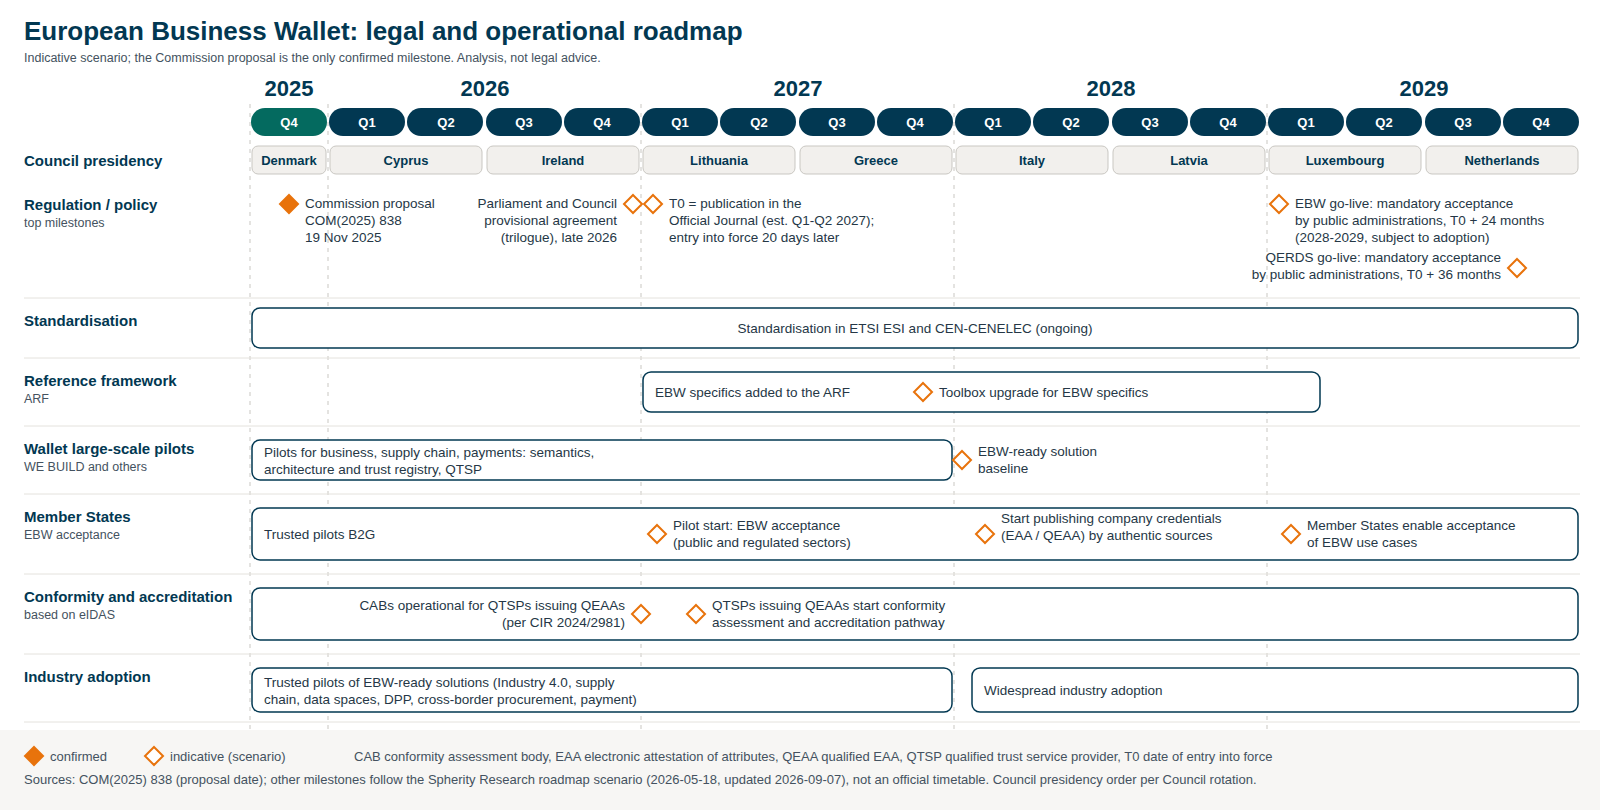
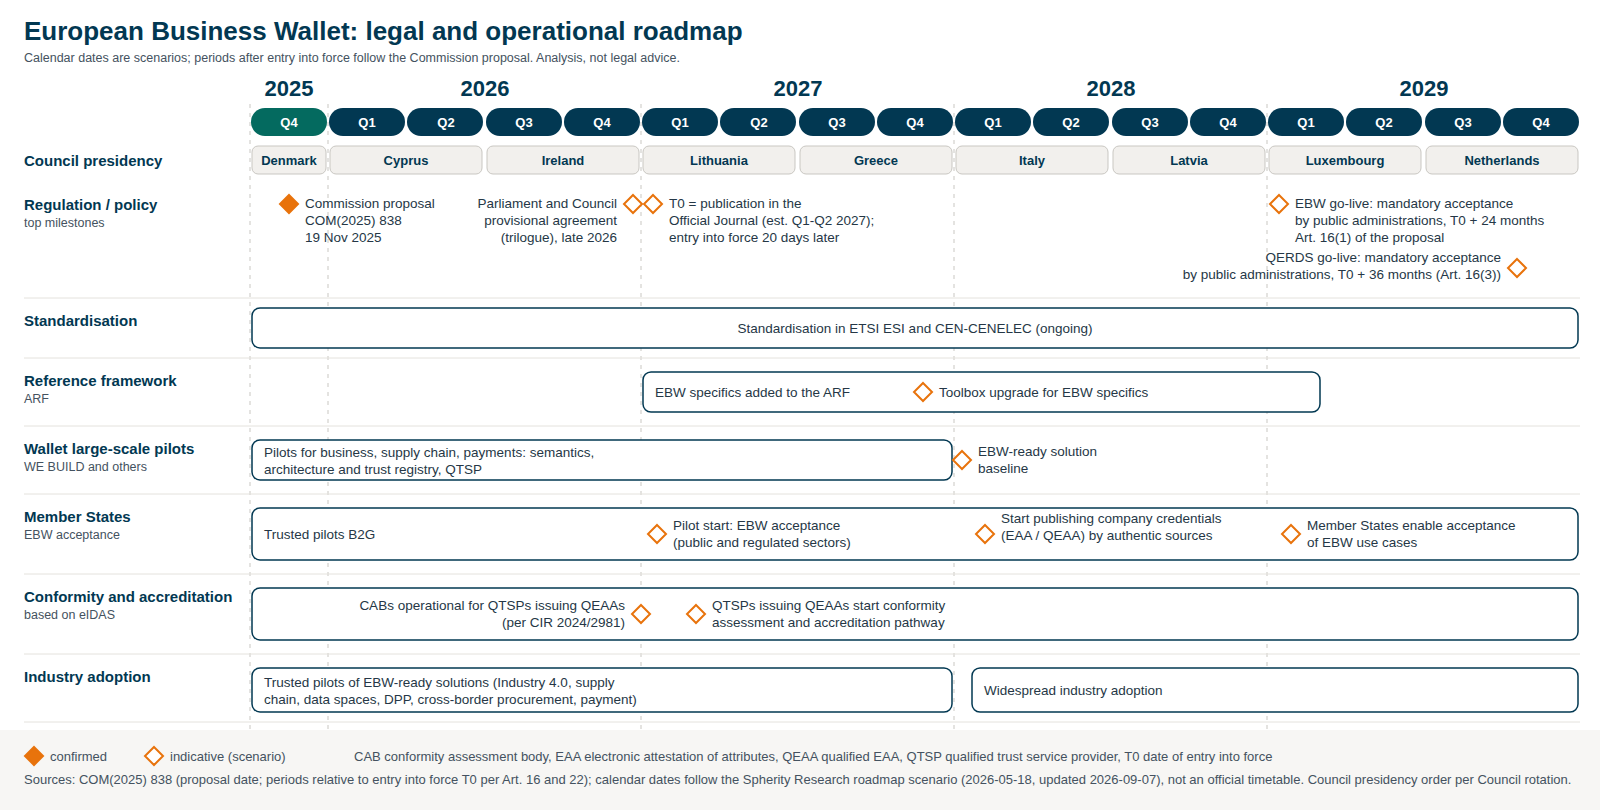
Verify roadmap periods against COM(2025) 838; collapsed sidebar opens as hover overlay
Claude-Session: https://claude.ai/code/session_01RRXMScBUHwRsdBuoyJLmUJ

Changed region(s): [[0.1562, 0.9568, 0.9688, 0.9877], [0.75, 0.2778, 0.9375, 0.3704], [0.0, 0.0617, 0.4375, 0.0926]]

diff --git a/_sass/custom/custom.scss b/_sass/custom/custom.scss
@@ -159,18 +159,17 @@ tr[hidden] { display: none; }
   .nav-toggle:hover { background: var(--sph-offwhite-500); }
   .nav-toggle .icon { width: 18px; height: 18px; transition: transform 220ms cubic-bezier(.16,1,.3,1); --icon: url("../icons/chevron-down.svg"); transform: rotate(90deg); }
   html.nav-collapsed .nav-toggle .icon { transform: rotate(-90deg); }
-  html.nav-collapsed .side-bar { --nav-w: 4.5rem; }
-  html.nav-collapsed .site-footer { width: 4.5rem; }
-  html.nav-collapsed .site-header { flex-direction: column; justify-content: center; gap: .25rem; height: auto; max-height: none; padding: .5rem 0; }
-  html.nav-collapsed .site-title { padding: 0; justify-content: center; flex-grow: 0; height: 2.25rem; }
-  html.nav-collapsed .site-logo { background-image: url("../images/logos/spherity-s-mark.svg") !important; background-size: contain !important; background-position: center !important; width: 2rem; height: 2rem; }
-  html.nav-collapsed .nav-toggle { margin-right: 0; }
-  html.nav-collapsed .site-nav { padding-top: .5rem; }
-  html.nav-collapsed .nav-list .nav-list-item .nav-list-link { font-size: 0 !important; padding: 0 !important; min-height: 2.75rem; display: flex; align-items: center; justify-content: center; }
-  html.nav-collapsed .nav-list .nav-list-link .nav-ic { margin: 0 !important; width: 22px !important; height: 22px; vertical-align: middle; }
-  html.nav-collapsed .nav-list .nav-list-link.external::after { display: none; }
-  html.nav-collapsed .nav-list .nav-list-expander, html.nav-collapsed .nav-list .nav-list-item > .nav-list, html.nav-collapsed .site-footer, html.nav-collapsed .side-bar footer { display: none !important; }
-  html.nav-collapsed .site-nav a.nav-list-link[aria-current="page"] { box-shadow: inset 0 -3px 0 var(--sph-cyan-500); }
+  html.nav-collapsed:not(.nav-peek) .site-footer { width: 4.5rem; }
+  html.nav-collapsed:not(.nav-peek) .site-header { flex-direction: column; justify-content: center; gap: .25rem; height: auto; max-height: none; padding: .5rem 0; }
+  html.nav-collapsed:not(.nav-peek) .site-title { padding: 0; justify-content: center; flex-grow: 0; height: 2.25rem; }
+  html.nav-collapsed:not(.nav-peek) .site-logo { background-image: url("../images/logos/spherity-s-mark.svg") !important; background-size: contain !important; background-position: center !important; width: 2rem; height: 2rem; }
+  html.nav-collapsed:not(.nav-peek) .nav-toggle { margin-right: 0; }
+  html.nav-collapsed:not(.nav-peek) .site-nav { padding-top: .5rem; }
+  html.nav-collapsed:not(.nav-peek) .nav-list .nav-list-item .nav-list-link { font-size: 0 !important; padding: 0 !important; min-height: 2.75rem; display: flex; align-items: center; justify-content: center; }
+  html.nav-collapsed:not(.nav-peek) .nav-list .nav-list-link .nav-ic { margin: 0 !important; width: 22px !important; height: 22px; vertical-align: middle; }
+  html.nav-collapsed:not(.nav-peek) .nav-list .nav-list-link.external::after { display: none; }
+  html.nav-collapsed:not(.nav-peek) .nav-list .nav-list-expander, html.nav-collapsed:not(.nav-peek) .nav-list .nav-list-item > .nav-list, html.nav-collapsed:not(.nav-peek) .site-footer, html.nav-collapsed:not(.nav-peek) .side-bar footer { display: none !important; }
+  html.nav-collapsed:not(.nav-peek) .site-nav a.nav-list-link[aria-current="page"] { box-shadow: inset 0 -3px 0 var(--sph-cyan-500); }
 }
 @media (min-width: 50rem) { .site-header { flex-wrap: nowrap; } }
 
@@ -203,9 +202,12 @@ table tbody tr:hover td { background: var(--sph-offwhite-300); }
 /* Layout: sidebar flush left, content uses the remaining width; smooth fold/unfold */
 @media (min-width: 50rem) {
   html { --nav-w: 17rem; }
-  html .side-bar { --nav-w: inherit; width: var(--nav-w) !important; min-width: var(--nav-w) !important; align-items: flex-start; overflow: hidden; transition: width 240ms cubic-bezier(.16,1,.3,1); }
+  html .side-bar { width: var(--side-w, var(--nav-w)) !important; min-width: var(--side-w, var(--nav-w)) !important; z-index: 20; align-items: flex-start; overflow: hidden; transition: width 240ms cubic-bezier(.16,1,.3,1); }
   html .side-bar + .main { margin-left: var(--nav-w) !important; max-width: none; transition: margin-left 240ms cubic-bezier(.16,1,.3,1); }
-  html.nav-collapsed { --nav-w: 4.5rem; }
+  html.nav-collapsed { --nav-w: 4.5rem; --side-w: 4.5rem; }
+  html.nav-collapsed.nav-peek { --side-w: 17rem; }
+  html.nav-collapsed.nav-peek .side-bar { box-shadow: 0 12px 32px rgba(2,56,82,.18); }
+  html.nav-collapsed.nav-peek .site-header { flex-direction: row; }
   html .site-header, html .site-nav { width: 100%; }
   html .main-content-wrap { max-width: 88rem; margin-left: auto; margin-right: auto; }
   html .main-header { max-width: 88rem; margin-left: auto; margin-right: auto; }

diff --git a/_includes/footer_custom.html b/_includes/footer_custom.html
@@ -38,8 +38,15 @@
     var b = document.createElement("button");
     b.type = "button"; b.className = "nav-toggle";
     b.innerHTML = '<span class="icon" aria-hidden="true"></span>';
+    var side = document.querySelector(".side-bar"), tin, tout;
+    if (side) {
+      side.addEventListener("mouseenter", function () { clearTimeout(tout); if (html.classList.contains("nav-collapsed")) tin = setTimeout(function () { html.classList.add("nav-peek"); }, 90); });
+      side.addEventListener("mouseleave", function () { clearTimeout(tin); tout = setTimeout(function () { html.classList.remove("nav-peek"); }, 180); });
+      side.addEventListener("focusin", function () { if (html.classList.contains("nav-collapsed")) html.classList.add("nav-peek"); });
+      side.addEventListener("focusout", function (e) { if (!side.contains(e.relatedTarget)) html.classList.remove("nav-peek"); });
+    }
     function sync() { var c = html.classList.contains("nav-collapsed"); b.setAttribute("aria-pressed", c ? "true" : "false"); b.setAttribute("aria-label", c ? "Expand navigation" : "Collapse navigation to icons"); b.title = c ? "Expand navigation" : "Collapse navigation to icons"; }
-    b.addEventListener("click", function () { html.classList.toggle("nav-collapsed"); try { localStorage.setItem("ebw-nav", html.classList.contains("nav-collapsed") ? "collapsed" : "expanded"); } catch (e) {} sync(); });
+    b.addEventListener("click", function () { html.classList.remove("nav-peek"); html.classList.toggle("nav-collapsed"); try { localStorage.setItem("ebw-nav", html.classList.contains("nav-collapsed") ? "collapsed" : "expanded"); } catch (e) {} sync(); });
     header.appendChild(b); sync();
   }
   // "On this page" for long articles

diff --git a/scripts/gen_roadmap.py b/scripts/gen_roadmap.py
@@ -19,7 +19,7 @@ a('<metadata xmlns:dc="http://purl.org/dc/elements/1.1/" xmlns:cc="http://creati
 a('<style>text{font-family:Archivo,Arial,sans-serif;fill:#253746}.t{font-size:26px;font-weight:700;fill:#023852}.lane{font-size:15px;font-weight:700;fill:#023852}.sub{font-size:12.5px;fill:#445260}.yr{font-size:22px;font-weight:700;fill:#023852}.q{font-size:13px;font-weight:600;fill:#fff}.bx{font-size:13.5px}.pres{font-size:13px;font-weight:600;fill:#023852}.leg{font-size:13px;fill:#445260}.grid{stroke:#C9C7C2;stroke-width:1;stroke-dasharray:4 5}</style>')
 a(f'<rect width="{W}" height="{H}" fill="#fff"/>')
 a(f'<text x="{LX}" y="40" class="t">European Business Wallet: legal and operational roadmap</text>')
-a(f'<text x="{LX}" y="62" class="sub">Indicative scenario; the Commission proposal is the only confirmed milestone. Analysis, not legal advice.</text>')
+a(f'<text x="{LX}" y="62" class="sub">Calendar dates are scenarios; periods after entry into force follow the Commission proposal. Analysis, not legal advice.</text>')
 # year labels and quarter ribbon
 years = [(2025, 0, 1), (2026, 1, 5), (2027, 5, 9), (2028, 9, 13), (2029, 13, 17)]
 for y, s, e in years:
@@ -57,8 +57,8 @@ for yy in (298, 358, 426, 494, 574, 654, 722):
 diamond(qx(0.5), 204, True); lines(qx(0.5)+16, 208, "Commission proposal|COM(2025) 838|19 Nov 2025")
 diamond(qx(4.9), 204); lines(qx(4.9)-16, 208, "Parliament and Council|provisional agreement|(trilogue), late 2026", "end")
 diamond(qx(5.15), 204); lines(qx(5.15)+16, 208, "T0 = publication in the|Official Journal (est. Q1-Q2 2027);|entry into force 20 days later")
-diamond(qx(13.15), 204); lines(qx(13.15)+16, 208, "EBW go-live: mandatory acceptance|by public administrations, T0 + 24 months|(2028-2029, subject to adoption)")
-diamond(qx(16.2), 268); lines(qx(16.2)-16, 262, "QERDS go-live: mandatory acceptance|by public administrations, T0 + 36 months", "end")
+diamond(qx(13.15), 204); lines(qx(13.15)+16, 208, "EBW go-live: mandatory acceptance|by public administrations, T0 + 24 months|Art. 16(1) of the proposal")
+diamond(qx(16.2), 268); lines(qx(16.2)-16, 262, "QERDS go-live: mandatory acceptance|by public administrations, T0 + 36 months (Art. 16(3))", "end")
 # standardisation
 bar(0, 17, 308, 40, None, "#fff", PET); lines(qx(8.5), 333, "Standardisation in ETSI ESI and CEN-CENELEC (ongoing)", "middle")
 # ARF
@@ -86,6 +86,6 @@ a(f'<rect x="0" y="{H-80}" width="{W}" height="80" fill="#F7F6F4"/>')
 diamond(LX+10, ly+6, True); a(f'<text x="{LX+26}" y="{ly+11}" class="leg">confirmed</text>')
 diamond(LX+130, ly+6); a(f'<text x="{LX+146}" y="{ly+11}" class="leg">indicative (scenario)</text>')
 a(f'<text x="{LX+330}" y="{ly+11}" class="leg">CAB conformity assessment body, EAA electronic attestation of attributes, QEAA qualified EAA, QTSP qualified trust service provider, T0 date of entry into force</text>')
-a(f'<text x="{LX}" y="{ly+34}" class="leg">Sources: COM(2025) 838 (proposal date); other milestones follow the Spherity Research roadmap scenario (2026-05-18, updated 2026-09-07), not an official timetable. Council presidency order per Council rotation.</text>')
+a(f'<text x="{LX}" y="{ly+34}" class="leg">Sources: COM(2025) 838 (proposal date; periods relative to entry into force T0 per Art. 16 and 22); calendar dates follow the Spherity Research roadmap scenario (2026-05-18, updated 2026-09-07), not an official timetable. Council presidency order per Council rotation.</text>')
 a('</svg>')
 open(os.path.join(ROOT, "assets/figures/legal-roadmap.svg"), "w").write("\n".join(out))

diff --git a/legal/roadmap.md b/legal/roadmap.md
@@ -19,23 +19,28 @@ When could the European Business Wallet (EBW) become mandatory for public admini
 
 ## Reading the roadmap
 
-The structure follows the roadmap of [Spherity Research](https://spherity.github.io/spherity-research/ebw-roadmap.html) (published 2026-05-18, updated 2026-09-07): Council presidencies on top, then seven tracks. Mandatory acceptance is counted from **T0**, the date the regulation enters into force, 20 days after publication in the Official Journal. <span class="vtag v-todo">to verify</span> The application periods (24 months for EBW, 36 months for qualified electronic registered delivery) are taken from the Spherity roadmap and still have to be checked against the proposal text.
+The structure follows the roadmap of [Spherity Research](https://spherity.github.io/spherity-research/ebw-roadmap.html) (published 2026-05-18, updated 2026-09-07): Council presidencies on top, then seven tracks. Mandatory acceptance is counted from **T0**, the date the regulation enters into force, 20 days after publication in the Official Journal. The periods relative to T0 are <span class="vtag v-ok">verified</span> in the text of the proposal (see the table); the calendar dates are not, because they depend on when the regulation is adopted.
 
 ## Milestones
 
-| Milestone | Date | Status | Gate or dependency |
+| Milestone | Date | Basis | Gate or dependency |
 |---|---|---|---|
 | Commission proposal COM(2025) 838 | 19 Nov 2025 | confirmed | Starts the legislative procedure |
-| Parliament and Council positions | 2026 | indicative | Council working party and Parliament committee work |
-| Provisional agreement (trilogue) | late 2026 | indicative | Political priorities; slippage into 2027 possible |
-| Publication in the Official Journal | about Q1 to Q2 2027 | indicative | Legal-linguistic revision; defines T0 |
-| Entry into force (T0) | publication + 20 days | indicative | Starts the application periods |
-| EBW specifics in the ARF and toolbox | 2027 | indicative | Final legal text; Cooperation Group |
-| Standards in ETSI ESI and CEN-CENELEC | ongoing, 2026 to 2027 | indicative | Needed before conformity assessment |
-| Start of company credentials by authentic sources | 2027 to 2028 | indicative | National law and data models |
-| Mandatory acceptance by public administrations | T0 + 24 months (2028 to 2029) | indicative | Interoperability infrastructure, trust lists, discovery |
-| Qualified electronic registered delivery go-live | T0 + 36 months | indicative | As above |
-| Widespread industry adoption | 2028 onwards | indicative | Network effect; not mandated by the proposal |
+| Parliament and Council positions | 2026 | scenario | Council working party and Parliament committee work |
+| Provisional agreement (trilogue) | late 2026 | scenario | Political priorities; slippage into 2027 possible |
+| Publication in the Official Journal | about Q1 to Q2 2027 | scenario | Legal-linguistic revision |
+| Entry into force (T0) | 20th day after publication | <span class="vtag v-ok">verified</span> Art. 22 | Starts the periods below |
+| Member States notify penalty rules and supervisory body | T0 + 12 months | <span class="vtag v-ok">verified</span> Art. 13 | National law |
+| Regulation applies | T0 + 1 year | <span class="vtag v-ok">verified</span> Art. 22 | |
+| Public sector bodies enable economic operators to identify and authenticate, sign or seal, submit documents and send or receive notifications with a Business Wallet | T0 + 24 months (2028 to 2029) | <span class="vtag v-ok">verified</span> Art. 16(1) | Trusted lists, discovery and interoperability infrastructure |
+| Public sector bodies offer qualified electronic registered delivery | until T0 + 36 months they may use alternative solutions with a gateway | <span class="vtag v-ok">verified</span> Art. 16(3) | Transition derogation |
+| Commission report on application, including whether to make Business Wallets mandatory | T0 + 3 years | <span class="vtag v-ok">verified</span> Art. 21 | Usage data |
+| Implementing acts on core functionalities and standards | no deadline in the proposal | <span class="vtag v-ok">verified</span> recital 29: "should be prioritised" | Standards, Cooperation Group |
+| EBW specifics in the ARF and toolbox | 2027 | scenario | Final legal text |
+| Start of company credentials by authentic sources | 2027 to 2028 | scenario | National law and data models |
+| Widespread industry adoption | 2028 onwards | scenario | Not mandated by the proposal |
+
+*Verified* means read in the full text of COM(2025) 838. The calendar dates for 24 and 36 months follow from the date of entry into force and move with it. The text can still change in the legislative procedure.
 
 ## Council presidencies
 
@@ -57,4 +62,8 @@ Denmark holds the presidency in Q4 2025. Council presidency order per the Counci
 
 ## Sources and status
 
-Only the date of the Commission proposal is confirmed by an official source ([Commission press release IP/25/2718](https://ec.europa.eu/commission/presscorner/api/files/document/print/en/ip_25_2718/IP_25_2718_EN.pdf)). All other milestones are Spherity scenario assumptions (provenance class A). *Draft. Analysis, not legal advice.*
+- [COM(2025) 838 final](https://eur-lex.europa.eu/legal-content/EN/TXT/?uri=CELEX:52025PC0838): Articles 13, 16, 21 and 22 read in full. <span class="vtag v-todo">to verify</span> The EUR-Lex rendering could not be retrieved; the text was read in the Commission document copy hosted by the Dutch Eerste Kamer. In that copy, Article 16 paragraphs are numbered 4 to 6 but cross-refer to 1 to 3, so check the paragraph numbers against the official text.
+- [Commission press release IP/25/2718](https://ec.europa.eu/commission/presscorner/api/files/document/print/en/ip_25_2718/IP_25_2718_EN.pdf): date of the proposal.
+- Scenario rows follow the Spherity Research roadmap (provenance class A), not an official timetable.
+
+*Draft. Analysis, not legal advice.*

diff --git a/_figures/legal-roadmap.md b/_figures/legal-roadmap.md
@@ -6,8 +6,8 @@ width: 1600
 height: 810
 figure_type: timeline
 alt: "Swimlane roadmap from Q4 2025 to Q4 2029 with Council presidencies and seven tracks. Regulation: Commission proposal COM(2025) 838 on 19 November 2025, trilogue agreement late 2026, publication in the Official Journal about Q1 to Q2 2027, mandatory acceptance by public administrations 24 months later. Further tracks cover standardisation, the Architecture Reference Framework, pilots, Member States, conformity and accreditation, and industry adoption."
-caption: "Indicative roadmap with legal, standardisation, pilot, conformity and adoption milestones. Only the Commission proposal is confirmed; all other milestones are scenarios."
-description: "Swimlane timeline of the European Business Wallet from Q4 2025 to Q4 2029 showing the rotating Council presidencies and seven tracks: regulation and policy, standardisation in ETSI ESI and CEN-CENELEC, Architecture Reference Framework updates, large-scale pilots, Member State acceptance, conformity assessment and accreditation for qualified trust service providers, and industry adoption. The Commission proposal of 19 November 2025 is the only confirmed milestone; trilogue agreement, publication, entry into force and the go-live dates are indicative and depend on adoption of the regulation."
+caption: "Indicative roadmap with legal, standardisation, pilot, conformity and adoption milestones. Calendar dates are scenarios; the 24 and 36 month periods after entry into force follow Articles 16 and 22 of the proposal."
+description: "Swimlane timeline of the European Business Wallet from Q4 2025 to Q4 2029 showing the rotating Council presidencies and seven tracks: regulation and policy, standardisation in ETSI ESI and CEN-CENELEC, Architecture Reference Framework updates, large-scale pilots, Member State acceptance, conformity assessment and accreditation for qualified trust service providers, and industry adoption. The Commission proposal of 19 November 2025 is confirmed; trilogue agreement, publication and calendar dates are scenarios. Entry into force 20 days after publication, application after one year, acceptance by public sector bodies after 24 months and the QERDS derogation until 36 months follow COM(2025) 838."
 keywords: [European Business Wallet roadmap, EBW timeline, COM(2025) 838, eIDAS 2.0, mandatory acceptance, Council presidency, conformity assessment, timeline]
 used_in: [/legal/roadmap/]
 last_verified: "2026-10-03"
